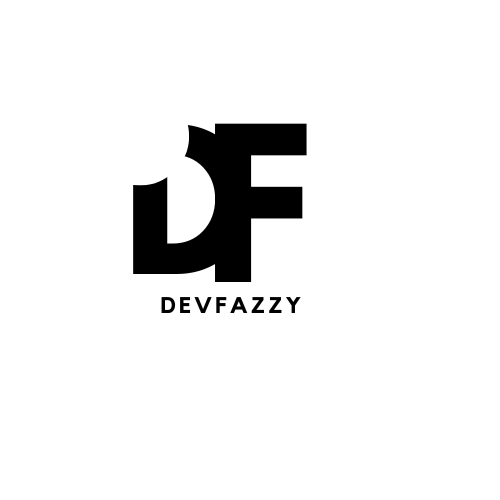
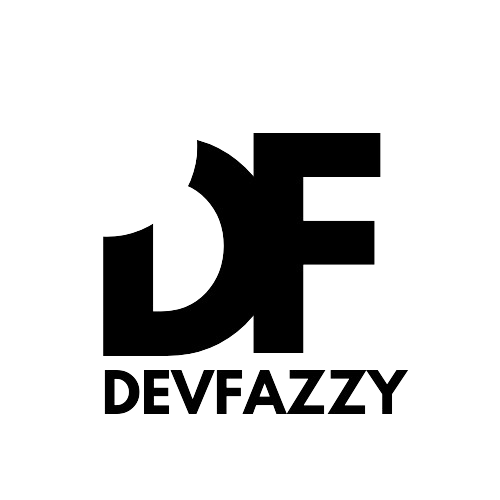
style: Add styles for header section

Changed region(s): [[0.18, 0.24, 0.81, 0.84]]

diff --git a/src/components/Header/Header.css b/src/components/Header/Header.css
@@ -1,0 +1,59 @@
+/* src/components/Header/Header.css */
+
+
+/* Importing variables.css */
+@import '../../variables.css';
+
+
+.header {
+  background-color: var(--primary-color);
+  padding: 20px 0;
+  width: 100%;
+  height: 100vh;
+}
+
+.nav-container {
+  display: flex;
+  justify-content: space-between;
+  max-width: 1700px;
+  margin-top: 5px;
+}
+
+.logo {
+  margin-left: 50px;
+  height: 5%;
+  width: 7%;
+}
+
+.nav-container ul {
+  margin-top: 50px;
+  list-style: none;
+  display: flex;
+}
+
+.nav-container li {
+  margin-left: 20px;
+}
+
+.nav-container a {
+  color: var(--text-color);
+  text-decoration: none;
+  font-size: 1.5em;
+  transition: color 0.3s ease;
+}
+
+.nav-container ul ::after {
+    content: '';
+    position: absolute;
+    width: 100%;
+    height: 2px;
+    background-color: var(--secondary-color);
+    bottom: -5px;
+    left: 0;
+    transform: scaleX(0);
+    transition: transform 0.3s ease;
+  }
+
+.nav-container ul :hover::after {
+    transform: scaleX(1);
+  }

diff --git a/src/components/Header/Header.js b/src/components/Header/Header.js
@@ -1,0 +1,22 @@
+import React from 'react';
+import logo from '../../Assets/devfazzy.png';
+import  "./Header.css"
+
+const Header = () => {
+    return (
+            <header className='header'>
+                <nav className='nav-container'>
+                    <img src={logo} alt='devfazzy logo' className='logo' />
+                    <ul>
+                        <li><a href="#about">About</a></li>
+                        <li><a href="#projects">Projects</a></li>
+                        <li><a href="#skills">Skills</a></li>
+                        <li><a href="#experience">Experience</a></li>
+                        <li><a href="#contact">Contact</a></li>
+                    </ul>
+            </nav>
+        </header>
+    );
+}
+
+export default Header;

diff --git a/src/App/App.js b/src/App/App.js
@@ -1,15 +1,11 @@
 // import logo from './logo.svg';
 import './App.css';
+import Header from '../components/Header/Header'
 
 function App() {
   return (
     <div className="App">
-      <header className="App-header">
-        {/* <img src={logo} className="App-logo" alt="logo" /> */}
-        <p>
-          Hello, World!
-        </p>
-      </header>
+      <Header/>
     </div>
   );
 }

diff --git a/src/App/App.css b/src/App/App.css
@@ -6,8 +6,3 @@
 
 }
 
-.App-logo {
-  height: 40vmin;
-  pointer-events: none;
-}
-
